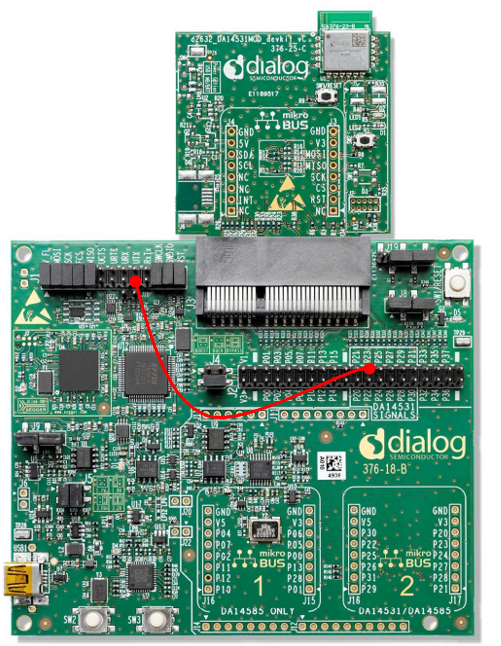
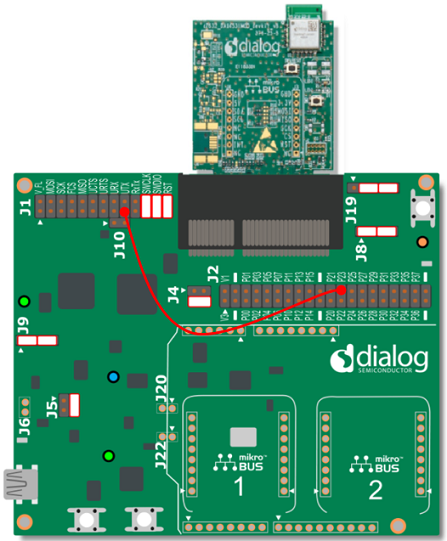
Updated Readme.md file based on Imed's comments. * Updated images

diff --git a/DA14531_Timer1_SW_Example/Readme.md b/DA14531_Timer1_SW_Example/Readme.md
@@ -12,13 +12,13 @@ This software example demonstrates the usage of the **TIMER1** hardware block. T
 
 ***Useful Note*** :
 
-    The demo is capable of running only one SW configuration per build. If more than one SW configurations are enabled the compiler will assert an error and promt to build with only one configuration activated.
+    The demo is capable of running only one SW configuration per build. If more than one SW configurations are enabled the compiler will assert an error and prompt to build with only one configuration activated.
 
 The example can be downloaded from Here.
 
 ## Introduction
 
-The DA14531 product family incorporates three (3) HW timer blocks **Timer0**, **Timer1**, **Timer2**. From the aforementioned timers only Timer1 is capable of running while the device is in sleep mode since its physicaly located in a seperate power domain (PD_TIM). Thus **TIMER1** can be used as a wake up source while the device is in extended or deep sleep.  
+The DA14531 product family incorporates three (3) HW timer blocks **Timer0**, **Timer1**, **Timer2**. From the aforementioned timers only Timer1 is capable of running while the device is in sleep mode since its physically located in a separate power domain (PD_TIM). Thus **Timer1** can be used as a wake up source while the device is in extended or deep sleep.  
 
 ![timer1_block_diagram](assets/timer1_block_diagram.PNG)
 
@@ -33,7 +33,7 @@ For getting more information about the HW Timers on DA14531, please refer to the
 
 ## Timer 1
 
-It is an 11-bit timer which supports Counting and Input Capturing, as input clock source either the **System Clock (sys_clk)** or **Low Power Clock (lp_clk)** can be used. Of course when the device is in sleep mode and the timer should be kept active the LP clock source should be selected. It is powered by a seperated power domain **PD_TIM** which can be kept active even if the system enters sleep mode. It can operate either in **count up** or **count down** mode, generate an interrupt when the timer reaches the **max/min value** or the **reload** value. As mentioned in the **Example description**, three different functionalities are demonstrated in this software example:
+It is an 11-bit timer which supports Counting and Input Capturing, as input clock source either the **System Clock (sys_clk)** or **Low Power Clock (lp_clk)** can be used. Of course when the device is in sleep mode and the timer should be kept active the LP clock source should be selected. It is powered by a separated power domain **PD_TIM** which can be kept active even if the system enters sleep mode. It can operate either in **count up** or **count down** mode, generate an interrupt when the timer reaches the **max/min value** or the **reload** value. As mentioned in the **Example description**, three different functionalities are demonstrated in this software example:
 
 1. **Timer Functionality**: In this sw configuration the DA14531 device is in sleep mode and **TIMER1** HW is running in the background. When the timer overflows it will generate an interrupt and wake up the device in order to toggle a LED and print a wake up message.
 
@@ -260,9 +260,9 @@ If **CFG_PRINTF** is defined in the `da1458x_config_basic.h`, the following resu
 
 3. When the SW starts running the device will wake up in order to advertise and when the rising or the falling events occur. When a rising or a falling event occurs the pulse_measure_sm() function will execute in order to read the timer captured values. As soon as the state of the pin returns to its idle state the device will report via UART the amount of time the pin was out of idle state in microseconds.
 
-    ***Usefull Note***:
+    ***Useful Note***:
 
-    The demo is using the SW2 button for toggling the line high or low, due to the bouncing of the switch miscounts may occur, especially if the system clock is used as a clock source for timer1. In cases where bouncing is expected a more sofisticated scheme should be applied based on the bouncing profile of the signal.
+    The demo is using the SW2 button for toggling the line high or low, due to the bouncing of the switch miscounts may occur, especially if the system clock is used as a clock source for timer1. In cases where bouncing is expected a more sophisticated scheme should be applied based on the bouncing profile of the signal.
 
     ![hw_setup](assets/SW2_button.PNG)
 
